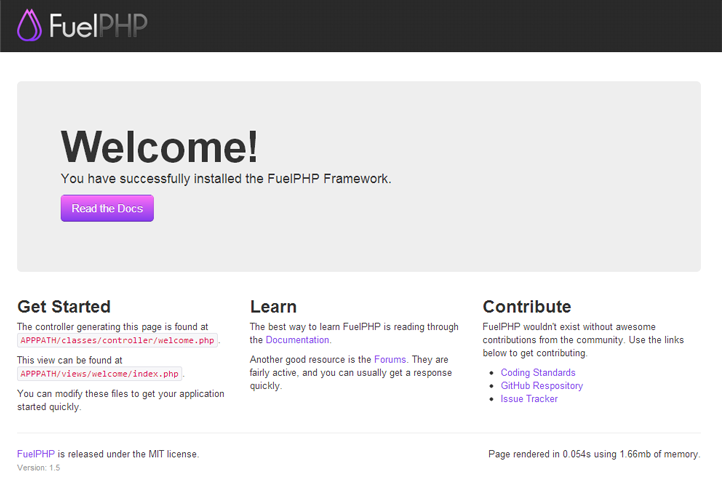
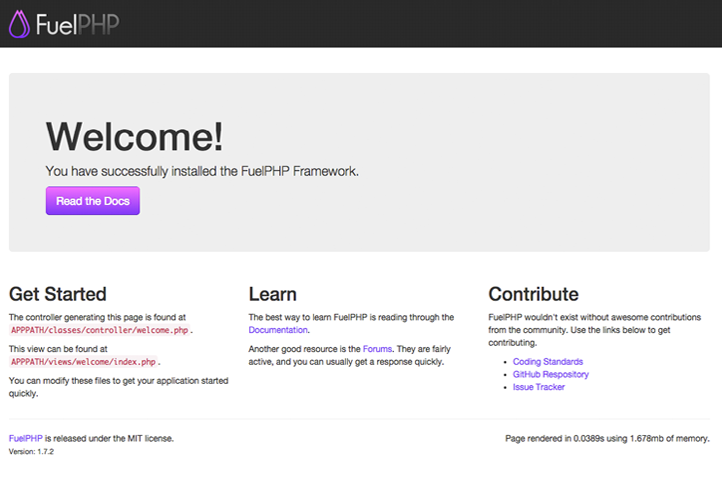
updated line numbers and screenshot of fuelsuccess

diff --git a/index.html b/index.html
@@ -128,7 +128,7 @@
 				<div class="linux">
 					<p>First and foremost, here&#8217;s what you&#8217;re going to need on Linux/OSX:</p>
 					<ol>
-						<li><a href="http://fuelphp.com">Fuel PHP framework</a> (we&#8217;re using v1.7)</li>
+						<li><a href="http://fuelphp.com">Fuel PHP framework</a> (we&#8217;re using v1.7.2)</li>
 						<li><a href="http://www.apachefriends.org/en/xampp.html">XAMPP</a> (for beginners) or any basic <a href="http://en.wikipedia.org/wiki/LAMP_(software_bundle)">LAMP package</a> <br>(many tutorials exist, here are some for a few popular linux distros: <a href="https://help.ubuntu.com/community/ApacheMySQLPHP">Ubuntu</a>, <a href="http://wiki.debian.org/LaMp">Debian</a>, <a href="http://en.opensuse.org/SDB:Linux_Apache_MySQL_PHP">SUSE</a>, and <a href="http://fedorasolved.org/server-solutions/lamp-stack">Fedora</a>)</li>
 						<li>phpMyAdmin (installation will vary depending on your os, XAMPP users have it already!)</li>
 						<li>A basic understanding of the <a href="http://php-html.net/tutorials/model-view-controller-in-php/">Model-View-Controller (MVC) pattern</a>.</li>
@@ -387,38 +387,39 @@
 			<div class="expando-content">
 				<div id="before_box">
 					<pre class="brush: php; highlight:[4,5,6,7,8,9,10,11,12,13,14,15,16,17,18,19,20,21,22,23,24,25,26] notranslate" title="">
-						&lt;h2&gt;Listing Messages&lt;/h2&gt;
+						&lt;h2&gt;Listing &lt;span class='muted'&gt;Messages&lt;/span&gt;&lt;/h2&gt;
 						&lt;br&gt;
 						&lt;?php if ($messages): ?&gt;
-							&lt;table class="table table-striped"&gt;
-								&lt;thead&gt;
-									&lt;tr&gt;
-										&lt;th&gt;Name&lt;/th&gt;
-										&lt;th&gt;Message&lt;/th&gt;
-									&lt;th&gt;&lt;/th&gt;
-									&lt;/tr&gt;
-								&lt;/thead&gt;
-								&lt;tbody&gt;
-								&lt;?php foreach ($messages as $message): ?&gt;		&lt;tr&gt;
+						&lt;table class=&quot;table table-striped&quot;&gt;
+							&lt;thead&gt;
+								&lt;tr&gt;
+									&lt;th&gt;Name&lt;/th&gt;
+									&lt;th&gt;Message&lt;/th&gt;
+									&lt;th&gt;&amp;nbsp;&lt;/th&gt;
+								&lt;/tr&gt;
+							&lt;/thead&gt;
+							&lt;tbody&gt;
+						&lt;?php foreach ($messages as $item): ?&gt;		&lt;tr&gt;
 
-									&lt;td&gt;&lt;?php echo $message-&gt;name; ?&gt;&lt;/td&gt;
-									&lt;td&gt;&lt;?php echo $message-&gt;message; ?&gt;&lt;/td&gt;
+									&lt;td&gt;&lt;?php echo $item-&gt;name; ?&gt;&lt;/td&gt;
+									&lt;td&gt;&lt;?php echo $item-&gt;message; ?&gt;&lt;/td&gt;
 									&lt;td&gt;
-									&lt;?php echo Html::anchor('messages/view/'.$message-&gt;id, 'View'); ?&gt; |
-									&lt;?php echo Html::anchor('messages/edit/'.$message-&gt;id, 'Edit'); ?&gt; |
-									&lt;?php echo Html::anchor('messages/delete/'.$message-&gt;id, 'Delete', array('onclick' =&gt; "return confirm('Are you sure?')")); ?&gt;
+										&lt;div class=&quot;btn-toolbar&quot;&gt;
+											&lt;div class=&quot;btn-group&quot;&gt;
+												&lt;?php echo Html::anchor('messages/view/'.$item-&gt;id, '&lt;i class=&quot;icon-eye-open&quot;&gt;&lt;/i&gt; View', array('class' =&gt; 'btn btn-small')); ?&gt;						&lt;?php echo Html::anchor('messages/edit/'.$item-&gt;id, '&lt;i class=&quot;icon-wrench&quot;&gt;&lt;/i&gt; Edit', array('class' =&gt; 'btn btn-small')); ?&gt;						&lt;?php echo Html::anchor('messages/delete/'.$item-&gt;id, '&lt;i class=&quot;icon-trash icon-white&quot;&gt;&lt;/i&gt; Delete', array('class' =&gt; 'btn btn-small btn-danger', 'onclick' =&gt; &quot;return confirm('Are you sure?')&quot;)); ?&gt;					&lt;/div&gt;
+										&lt;/div&gt;
 
 									&lt;/td&gt;
-									&lt;/tr&gt;
-								&lt;?php endforeach; ?&gt;
-								&lt;/tbody&gt;
-							&lt;/table&gt;
+								&lt;/tr&gt;
+						&lt;?php endforeach; ?&gt;	&lt;/tbody&gt;
+						&lt;/table&gt;
 
 						&lt;?php else: ?&gt;
-							&lt;p&gt;No Messages.&lt;/p&gt;
-						&lt;?php endif; ?&gt;
-						&lt;p&gt;
-							&lt;?php echo Html::anchor('messages/create', 'Add new Message', array('class' =&gt; 'btn success')); ?&gt;
+						&lt;p&gt;No Messages.&lt;/p&gt;
+
+						&lt;?php endif; ?&gt;&lt;p&gt;
+							&lt;?php echo Html::anchor('messages/create', 'Add new Message', array('class' =&gt; 'btn btn-success')); ?&gt;
+
 						&lt;/p&gt;
 					</pre>
 				</div>
@@ -426,8 +427,8 @@
 
 			<p><strong>After:</strong></p>
 			<pre class="brush: php; highlight:[4,5,6,7,8,9,10,11,12,13,14,15] notranslate" title="">
-				&lt;h2&gt;Listing Messages&lt;/h2&gt;
-				&lt;br/&gt;
+				&lt;h2&gt;Listing &lt;span class='muted'&gt;Messages&lt;/span&gt;&lt;/h2&gt;
+				&lt;br&gt;
 				&lt;?php if ($messages): ?&gt;
 					&lt;ul&gt;
 						&lt;?php foreach ($messages as $message): ?&gt;
@@ -436,7 +437,7 @@
 									&lt;li&gt;&lt;?php echo $message-&gt;message; ?&gt;&lt;/li&gt;
 									&lt;li&gt;&lt;?php echo Html::anchor('messages/view/'.$message-&gt;id, 'View'); ?&gt;&lt;/li&gt;
 									&lt;li&gt;&lt;?php echo Html::anchor('messages/edit/'.$message-&gt;id, 'Edit'); ?&gt;&lt;/li&gt;
-									&lt;li&gt;&lt;?php echo Html::anchor('messages/delete/'.$message-&gt;id, 'Delete', array('onclick' =&gt; "return confirm('Are you sure?')")); ?&gt;&lt;/li&gt;
+									&lt;li&gt;&lt;?php echo Html::anchor('messages/delete/'.$message-&gt;id, 'Delete', array('onclick' =&gt; &quot;return confirm('Are you sure?')&quot;)); ?&gt;&lt;/li&gt;
 								&lt;/ul&gt;
 							&lt;/li&gt;
 						&lt;?php endforeach; ?&gt;
@@ -446,7 +447,7 @@
 					&lt;p&gt;No Messages.&lt;/p&gt;
 				&lt;?php endif; ?&gt;
 				&lt;p&gt;
-					&lt;?php echo Html::anchor('messages/create', 'Add new Message', array('class' =&gt; 'btn success')); ?&gt;
+					&lt;?php echo Html::anchor('messages/create', 'Add new Message', array('class' =&gt; 'btn btn-success')); ?&gt;
 				&lt;/p&gt;
 			</pre>
 			<p>Now your code is more semantic, if not more understandable (If you don&#8217;t like the bullets or the list view, <a href="http://css.maxdesign.com.au/listutorial/horizontal_introduction.htm">you can take them away using CSS</a>).</p>
@@ -645,19 +646,22 @@
 						'comment',
 						'message_id',
 						'created_at',
-						'updated_at'
+						'updated_at',
 					);
 
 					protected static $_observers = array(
-						'Orm\Observer_CreatedAt' => array(
-							'events' => array('before_insert'),
-							'mysql_timestamp' => false,
+						'Orm\Observer_CreatedAt' =&gt; array(
+							'events' =&gt; array('before_insert'),
+							'mysql_timestamp' =&gt; false,
 						),
-						'Orm\Observer_UpdatedAt' => array(
-							'events' => array('before_update'),
-							'mysql_timestamp' => false,
+						'Orm\Observer_UpdatedAt' =&gt; array(
+							'events' =&gt; array('before_update'),
+							'mysql_timestamp' =&gt; false,
 						),
 					);
+
+					protected static $_table_name = 'comments';
+
 				}
 			</pre>
 			<h5 id="Why_Its_So_Small">Why It&#8217;s So Small</h5>
@@ -681,7 +685,7 @@
 			<h5 id="Adding_to_the_Database">Adding to the Database</h5>
 			<p>We can now edit the comments controller to actually add our comments to the database. So go ahead and open the <code>/fuel/app/classes/controller/comments.php</code> file.</p>
 			<p>First and foremost, an <code>$id</code> variable is going to be taken in, so we need to add that as an attribute to the action_create function:</p>
-			<pre class="brush: php; first-line: 12; highlight:[12] notranslate" title="">
+			<pre class="brush: php; first-line: 13; highlight:[13] notranslate" title="">
 				public function action_create($id = null)
 				{
 					$data[&quot;subnav&quot;] = array('edit'=&gt; 'active');
@@ -691,7 +695,7 @@
 				}
 			</pre>
 			<p>Notice that we are setting the <code>$id</code> to null by default. Now we need to check to make sure that they&#8217;ve completed the form, so we add an if statement:</p>
-			<pre class="brush: php; first-line: 12; highlight:[14,15,16] notranslate" title="">
+			<pre class="brush: php; first-line: 13; highlight:[15,16,17] notranslate" title="">
 				public function action_create($id = null)
 				{
 					if (Input::post())
@@ -706,7 +710,7 @@
 			</pre>
 			<p>This is using Fuel&#8217;s Input class, but we could have just as easily used <code>"if ($_POST)</code>&#8221; as well.</p>
 			<p>But what about going to the form before submitting?</p>
-			<pre class="brush: php; first-line: 12; highlight:[17,18,19,20] notranslate" title="">
+			<pre class="brush: php; first-line: 13; highlight:[18,19,20,21] notranslate" title="">
 				public function action_create($id = null)
 				{
 					if (Input::post())
@@ -725,7 +729,7 @@
 			</pre>
 			<p>This means if they didn&#8217;t post anything, take the <code>$id</code> and turn it into a variable called <code>$message</code> that the view can use.</p>
 			<p>Now we need to build a new comment model in order to save the comment into the database.</p>
-			<pre class="brush: php; first-line: 12; highlight:[16,17,18,19,20] notranslate" title="">
+			<pre class="brush: php; first-line: 13; highlight:[17,18,19,20,21] notranslate" title="">
 				public function action_create($id = null)
 				{
 					if (Input::post())
@@ -748,7 +752,7 @@
 				}
 			</pre>
 			<p><code>$comment</code> is now an object that has the comment information in it, so we need to try and save the comment:</p>
-			<pre class="brush: php; first-line: 12; highlight:[22,23,24] notranslate" title="">
+			<pre class="brush: php; first-line: 13; highlight:[23,24,25] notranslate" title="">
 				public function action_create($id = null)
 				{
 					if (Input::post())
@@ -777,7 +781,7 @@
 			<p>&#8216;And&#8217; is used here instead of &#8216;&amp;&amp;&#8217; because it&#8217;s part of the <a href="http://fuelphp.com/docs/general/coding_standards.html#comparison_logical">Fuel coding standards</a>.</p>
 			<p>If the <code>if</code> statement is successful, it will save the comment to the database, so we should now set a flash to show that to the user. <a href="http://fuelphp.com/docs/classes/session/usage.html#method_set_flash">Session Flashes</a> are for information with a limited lifespan, such as presenting success or failure information.</p>
 			<p>So we can set our flash and redirect our user back to the message they were viewing:</p>
-			<pre class="brush: php; first-line: 12; highlight:[24,25] notranslate" title="">
+			<pre class="brush: php; first-line: 13; highlight:[25,26] notranslate" title="">
 				public function action_create($id = null)
 				{
 					if (Input::post())
@@ -806,7 +810,7 @@
 				}
 			</pre>
 			<p>or else we set the flash to say that the comment couldn&#8217;t be saved:</p>
-			<pre class="brush: php; first-line: 12; highlight:[27,28,29,30] notranslate" title="">
+			<pre class="brush: php; first-line: 13; highlight:[28,29,30,31] notranslate" title="">
 				public function action_create($id = null)
 				{
 					if (Input::post())
